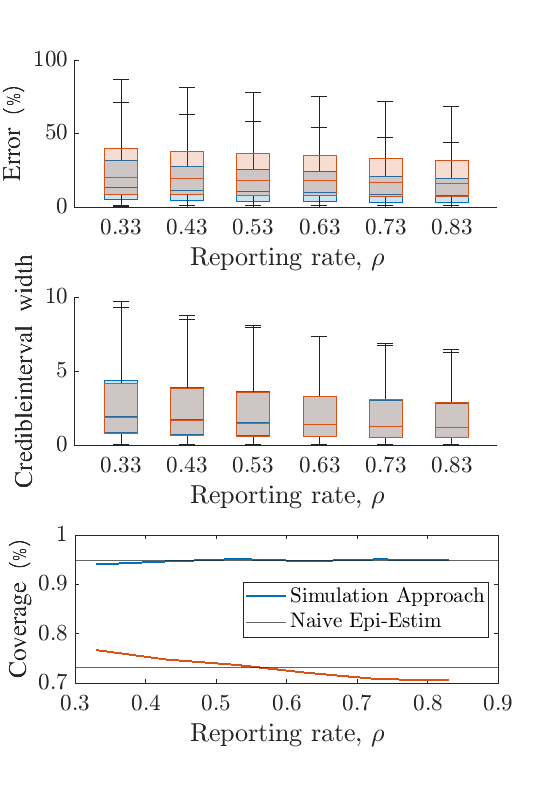
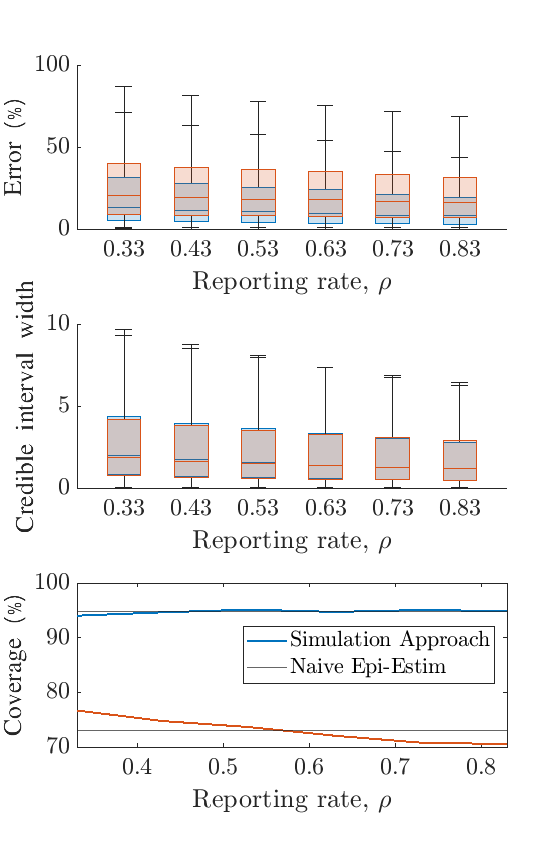
pre meeting

diff --git a/MATLAB/largeScaleAnalysis.m b/MATLAB/largeScaleAnalysis.m
@@ -169,16 +169,16 @@ xlim([0.26 0.9])
 ylim([0 10])
 xticks(0.33:0.1:0.83)
 
-ylabel('Credibleinterval width')
+ylabel('Credible interval width')
 xlabel('Reporting rate, $\rho$', 'interpreter', 'latex')
 
 subplot(3, 1, 3)
 
-plot(0.33:0.1:0.83, coverageByRho)
+plot(0.33:0.1:0.83, 100*coverageByRho)
 hold on
-yline(overallTotalCoverage)
-plot(0.33:0.1:0.83, coverageEEByRho)
-yline(overallNaiveEECoverage)
+yline(100*overallTotalCoverage)
+plot(0.33:0.1:0.83, 100*coverageEEByRho)
+yline(100*overallNaiveEECoverage)
 xlabel('Reporting rate, $\rho$', 'interpreter', 'latex')
 ylabel('Coverage (%)')
 legend('Simulation Approach', 'Naive Epi-Estim')

diff --git a/README.md b/README.md
@@ -41,7 +41,7 @@ Key concept: Coefficient of variation, $CV = \sigma/\mu$.
 
 + Skeleton paragraphs.
 
-## Section 1. Checking incidence is accurate, precise and robust.
+## Section 1. Checking inference is accurate, precise and robust.
 
 We look at two case studies. Firstly, we look at a realistic outbreak. Secondly, we simulate a large number of epidemics, where the true $R_t$ values are sampled from the same gamma distribution that informs our prior.
 
@@ -53,16 +53,24 @@ We look at two case studies. Firstly, we look at a realistic outbreak. Secondly,
 
 *Fig 2: Large scale study showing our inference is both more precise and more accurate than EE*
 
-NB: 3rd subplot should be with fig 4?
-
 ![fig3](figs/sectionRobustness/mainRobustness.png)
 
 *Fig 3: Clear demo that our method is more robust, and motivates why we choose M=100,000 (SUPP)*
+
+## Section 2. Inference is comparable to implementing previous method over large range of possible true incidence (RWD)
+
+Pending cluster computation
+
+## Section 3. Increasing $\rho$ leads to more accurate inference with appropriate coverage
 
 ![fig4](figs/sectionEffectOfRho/increasingRhoIsGood.png)
 
 *Fig 4: Demo that increasing reporting rate leads to smaller errors and narrower credible intervals*
 
+## Section 4. Verification that increasing $\rho$ leads to narrower credible intervals
+
 ![fig5](figs/sectionRWD/widthOfCrediblesDecreaseWithRho.png)
 
 *Fig 5: Same point as Fig 4 but with real world data.*
+
+NB: We do not do a large-scale study here and instead simulate reported incidence by choosing the most likely reporting given true incidence. This gives a simple, interpretable figure instead of re-running analyses to account for stochasticity.
